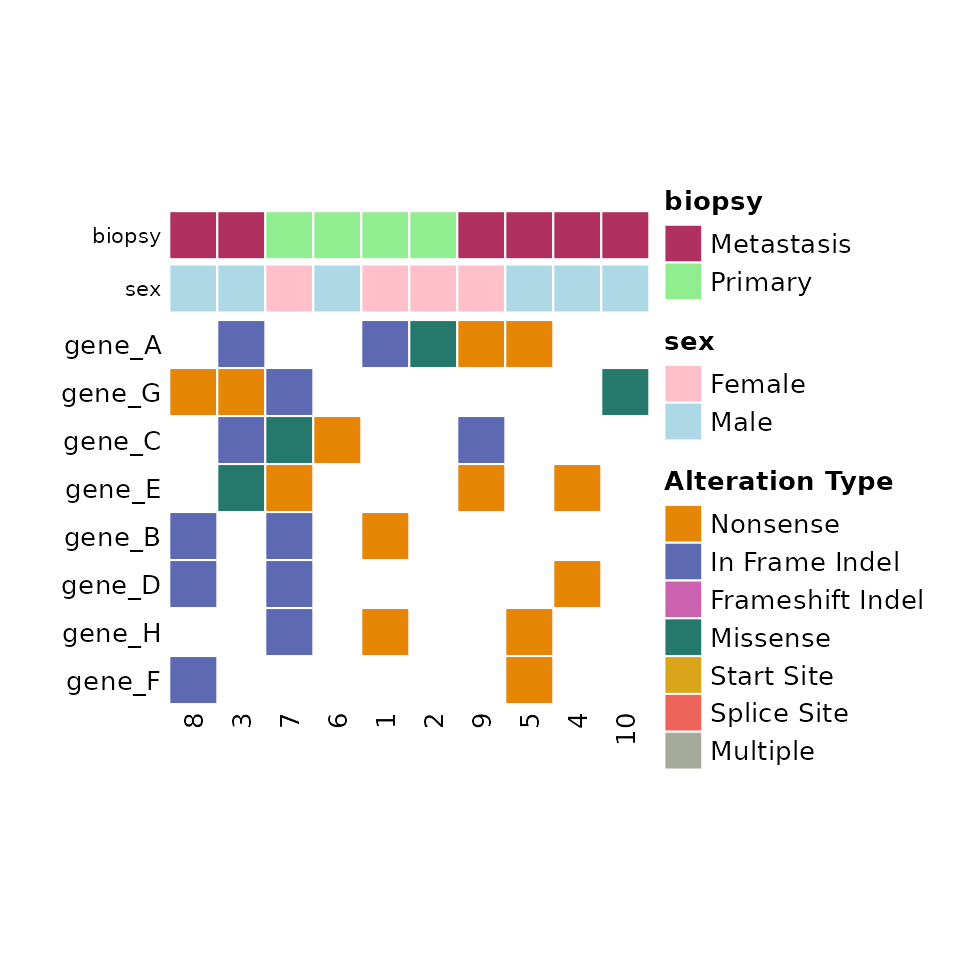
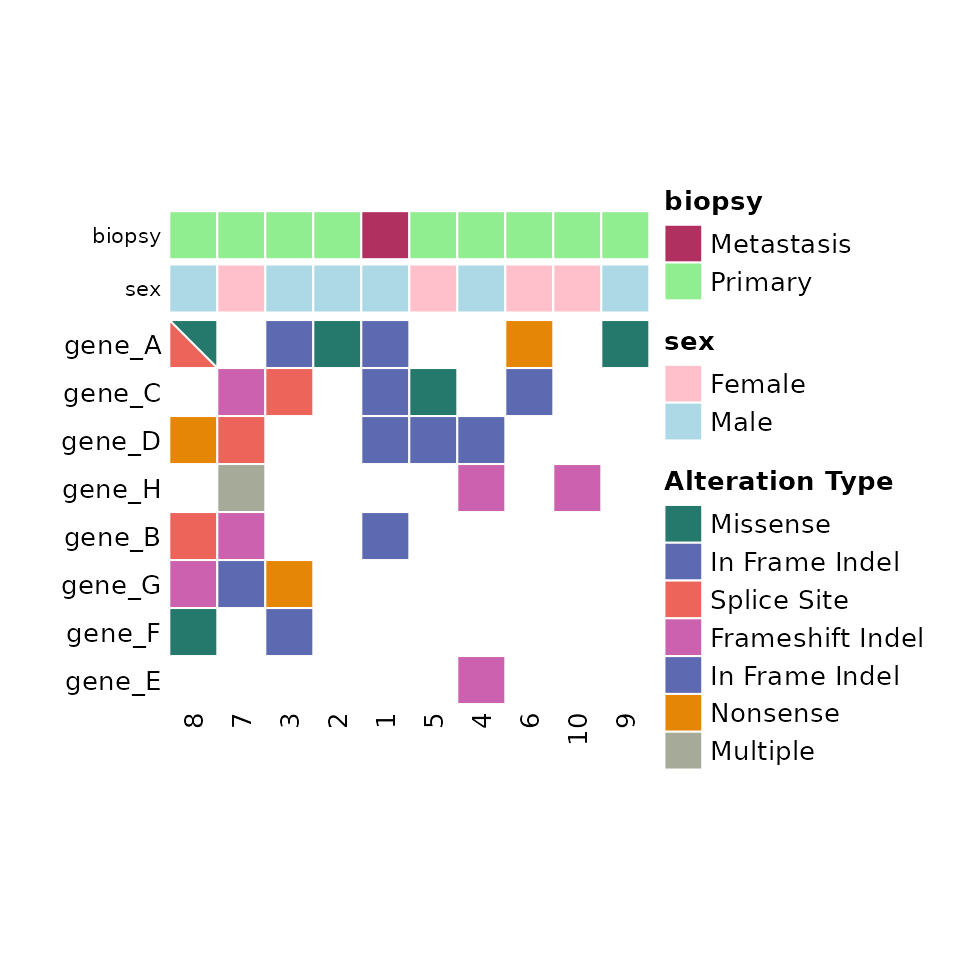
Deploying to gh-pages from @ taprati/ComutR@43f822c8a55b09e7c42c1e71c1b6816b41d7d964 🚀

diff --git a/articles/ComutR.html b/articles/ComutR.html
@@ -82,7 +82,7 @@ format</a></p>
 <span><span class="va">gene_names</span> <span class="op">&lt;-</span> <span class="fu"><a href="https://rdrr.io/r/base/c.html" class="external-link">c</a></span><span class="op">(</span><span class="st">"A"</span>, <span class="st">"B"</span>, <span class="st">"C"</span>, <span class="st">"D"</span>, <span class="st">"E"</span>, <span class="st">"F"</span>, <span class="st">"G"</span>, <span class="st">"H"</span><span class="op">)</span></span>
 <span><span class="va">gene_names</span> <span class="op">&lt;-</span> <span class="fu"><a href="https://rdrr.io/r/base/paste.html" class="external-link">paste0</a></span><span class="op">(</span><span class="st">"gene_"</span>, <span class="va">gene_names</span><span class="op">)</span></span>
 <span></span>
-<span><span class="va">variant_types</span> <span class="op">=</span> <span class="fu"><a href="https://rdrr.io/r/base/c.html" class="external-link">c</a></span><span class="op">(</span><span class="st">"Missense_Mutation"</span>, <span class="st">"Nonsense_Mutation"</span>, <span class="st">"In_Frame_Del"</span>, <span class="st">"In_Frame_Del"</span>, <span class="st">"Missense_Mutation"</span>, <span class="st">"Nonsense_Mutation"</span>, <span class="st">"Nonsense_Mutation"</span><span class="op">)</span></span>
+<span><span class="va">variant_types</span> <span class="op">&lt;-</span> <span class="fu"><a href="https://rdrr.io/r/base/c.html" class="external-link">c</a></span><span class="op">(</span><span class="st">"Frame_Shift_Del"</span>, <span class="st">"Frame_Shift_Ins"</span>, <span class="st">"In_Frame_Del"</span>, <span class="st">"In_Frame_Ins"</span>, <span class="st">"Missense_Mutation"</span>, <span class="st">"Nonsense_Mutation"</span>, <span class="st">"Splice_Site"</span>, <span class="st">"Translation_Start_Site"</span><span class="op">)</span></span>
 <span></span>
 <span><span class="va">maf</span> <span class="op">&lt;-</span> <span class="fu"><a href="https://rdrr.io/r/base/expand.grid.html" class="external-link">expand.grid</a></span><span class="op">(</span></span>
 <span>  <span class="st">"Tumor_Sample_Barcode"</span> <span class="op">=</span> <span class="va">sample_ids</span>,</span>
@@ -90,18 +90,25 @@ format</a></p>
 <span>  <span class="op">)</span></span>
 <span><span class="va">maf</span><span class="op">$</span><span class="va">Variant_Classification</span> <span class="op">&lt;-</span> <span class="fu"><a href="https://rdrr.io/r/base/sample.html" class="external-link">sample</a></span><span class="op">(</span><span class="va">variant_types</span>,</span>
 <span>                                     size <span class="op">=</span> <span class="fu"><a href="https://rdrr.io/r/base/nrow.html" class="external-link">nrow</a></span><span class="op">(</span><span class="va">maf</span><span class="op">)</span>, replace <span class="op">=</span> <span class="cn">TRUE</span><span class="op">)</span></span>
-<span><span class="co"># "Variant_Classification" = variant_types</span></span>
+<span></span>
+<span><span class="co"># Randomly subset</span></span>
 <span><span class="va">input_maf</span> <span class="op">&lt;-</span> <span class="va">maf</span> <span class="op"><a href="../reference/pipe.html">%&gt;%</a></span></span>
 <span>  <span class="fu">dplyr</span><span class="fu">::</span><span class="fu"><a href="https://dplyr.tidyverse.org/reference/sample_n.html" class="external-link">sample_frac</a></span><span class="op">(</span><span class="fl">0.35</span><span class="op">)</span></span>
 <span></span>
+<span><span class="co"># Duplicate first row twice for showing multiple</span></span>
+<span><span class="va">input_maf</span> <span class="op">&lt;-</span> <span class="fu"><a href="https://rdrr.io/r/base/cbind.html" class="external-link">rbind</a></span><span class="op">(</span><span class="va">input_maf</span><span class="op">[</span><span class="fu"><a href="https://rdrr.io/r/base/rep.html" class="external-link">rep</a></span><span class="op">(</span><span class="fl">1</span>, <span class="fl">2</span><span class="op">)</span>,<span class="op">]</span>, <span class="va">input_maf</span><span class="op">)</span></span>
+<span><span class="co"># Duplicate last row once for showing double annotations</span></span>
+<span><span class="va">input_maf</span> <span class="op">&lt;-</span> <span class="fu"><a href="https://rdrr.io/r/base/cbind.html" class="external-link">rbind</a></span><span class="op">(</span><span class="va">input_maf</span><span class="op">[</span><span class="fl">4</span>,<span class="op">]</span>, <span class="va">input_maf</span><span class="op">)</span></span>
+<span><span class="va">input_maf</span><span class="op">[</span><span class="fl">1</span>, <span class="fl">3</span><span class="op">]</span> <span class="op">&lt;-</span> <span class="st">"Missense_Mutation"</span></span>
+<span></span>
 <span><span class="va">input_maf</span> <span class="op"><a href="../reference/pipe.html">%&gt;%</a></span> <span class="fu"><a href="https://rdrr.io/r/utils/head.html" class="external-link">head</a></span><span class="op">(</span><span class="op">)</span></span></code></pre></div>
-<pre><code><span><span class="co">##   Tumor_Sample_Barcode Hugo_Symbol Variant_Classification</span></span>
-<span><span class="co">## 1                    8      gene_B           In_Frame_Del</span></span>
-<span><span class="co">## 2                    8      gene_D           In_Frame_Del</span></span>
-<span><span class="co">## 3                    3      gene_G      Nonsense_Mutation</span></span>
-<span><span class="co">## 4                    7      gene_D           In_Frame_Del</span></span>
-<span><span class="co">## 5                    6      gene_C      Nonsense_Mutation</span></span>
-<span><span class="co">## 6                    3      gene_C           In_Frame_Del</span></span></code></pre>
+<pre><code><span><span class="co">##     Tumor_Sample_Barcode Hugo_Symbol Variant_Classification</span></span>
+<span><span class="co">## 2                      8      gene_A      Missense_Mutation</span></span>
+<span><span class="co">## 1                      7      gene_H           In_Frame_Ins</span></span>
+<span><span class="co">## 1.1                    7      gene_H           In_Frame_Ins</span></span>
+<span><span class="co">## 110                    7      gene_H           In_Frame_Ins</span></span>
+<span><span class="co">## 29                     8      gene_A            Splice_Site</span></span>
+<span><span class="co">## 3                      3      gene_A           In_Frame_Ins</span></span></code></pre>
 </div>
 </div>
 <div class="section level2">
